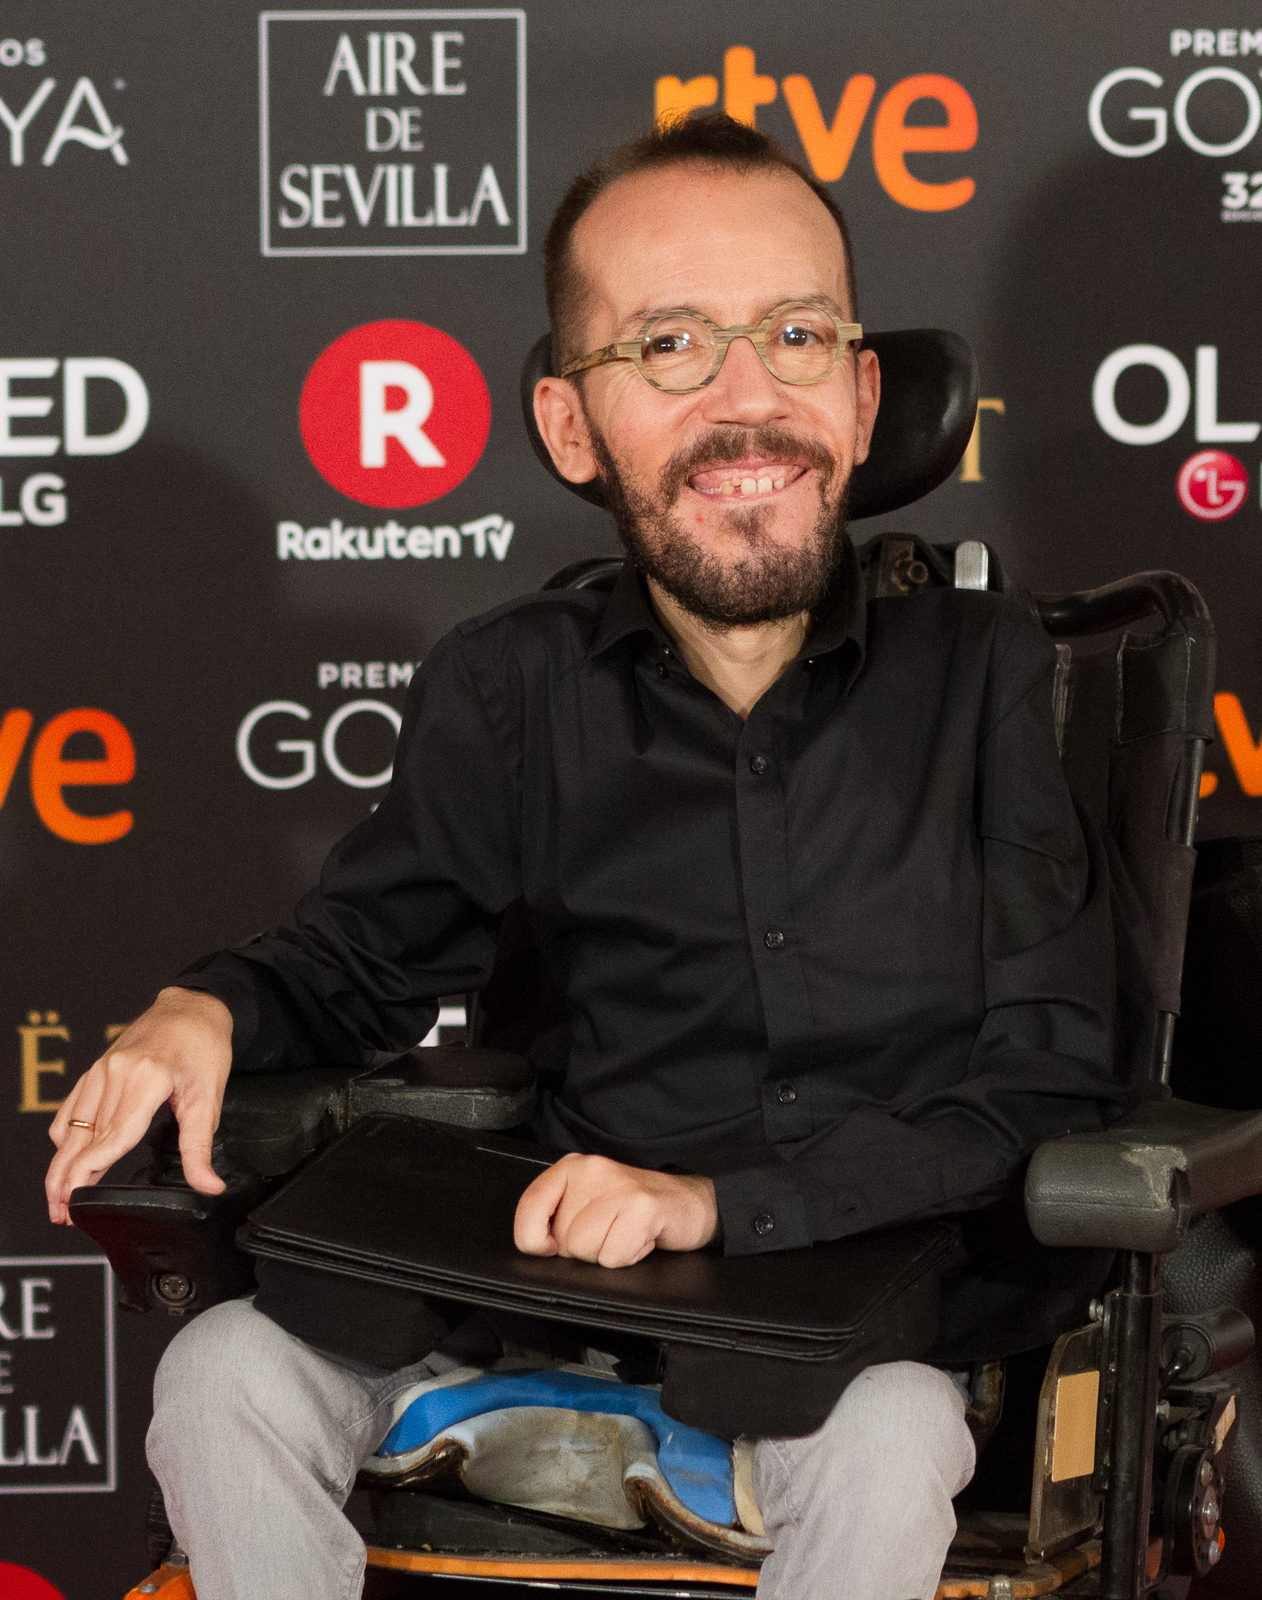
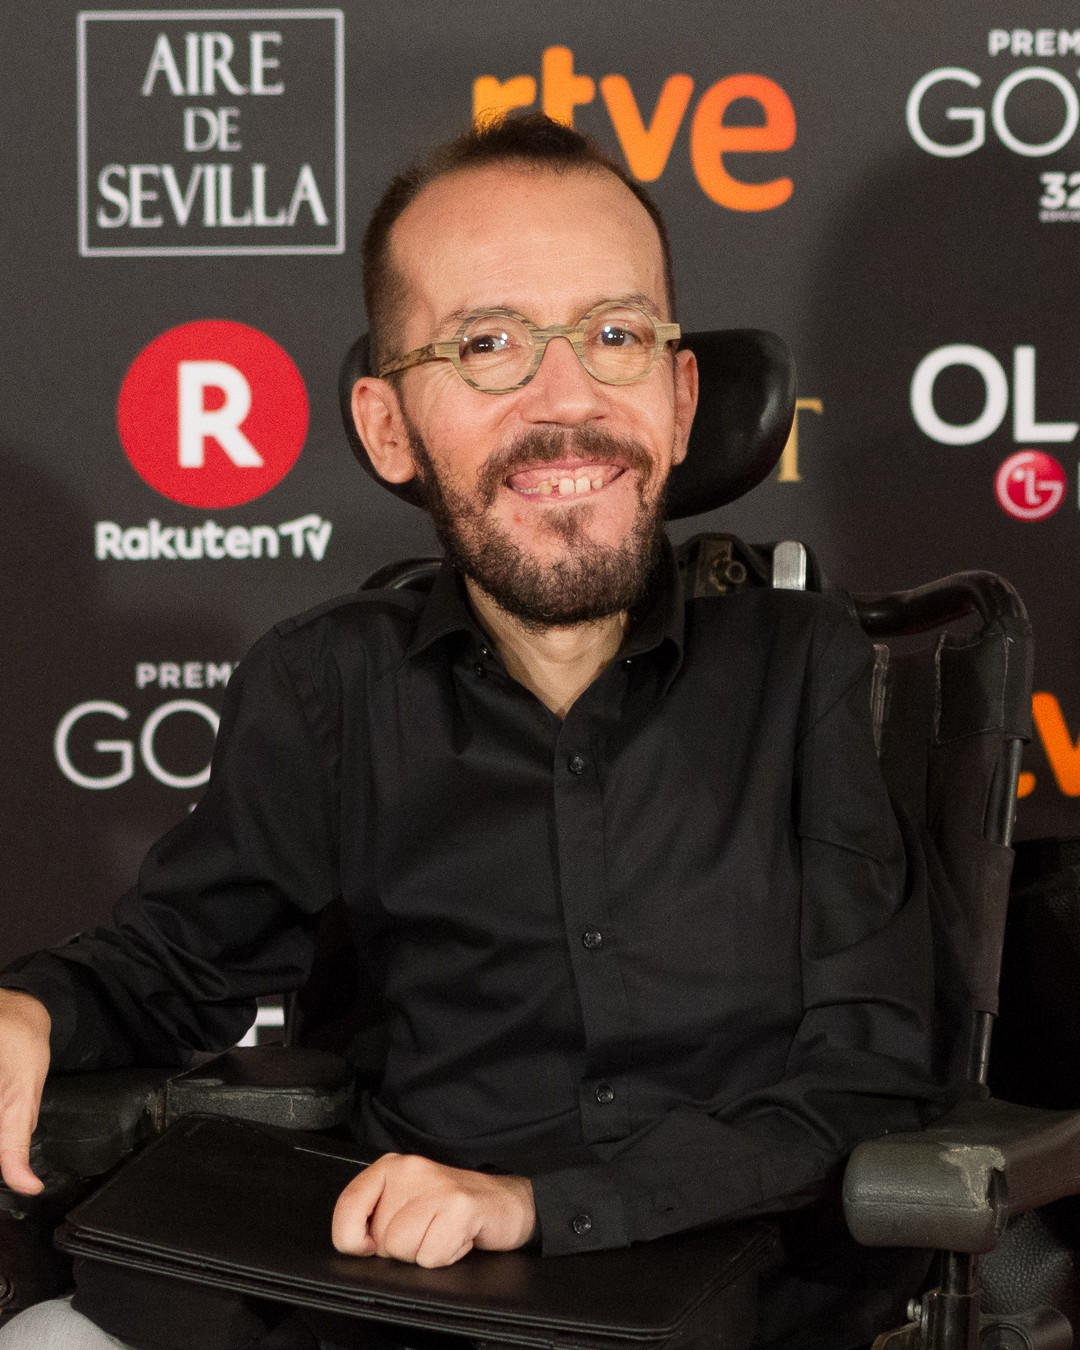
podemos path fixes

diff --git a/source/lib/allegiances.js b/source/lib/allegiances.js
@@ -423,10 +423,10 @@
     carmena: function (Q) {
       var list = [
         { colour: "#d70729", label: "PCE", note: "former" },
-        { colour: "--mpais", label: "Ahora Madrid" },
+        { colour: "mpais", label: "Ahora Madrid" },
       ];
       if (Q.spa_mpais_active) {
-        list.push({ colour: "--mpais", label: "Más País" });
+        list.push({ colour: "mpais", label: "Más País" });
       }
       return list;
     },
